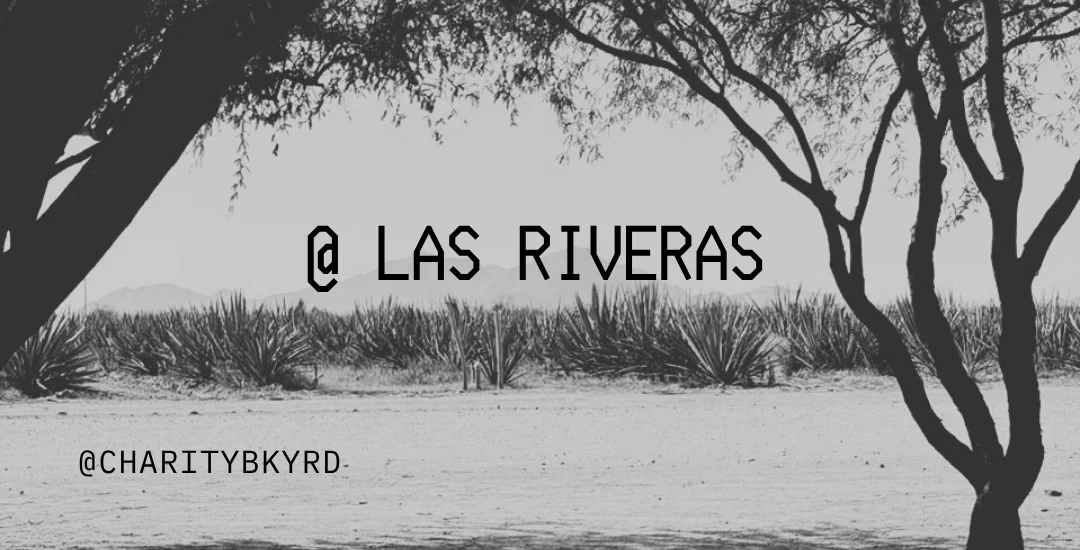
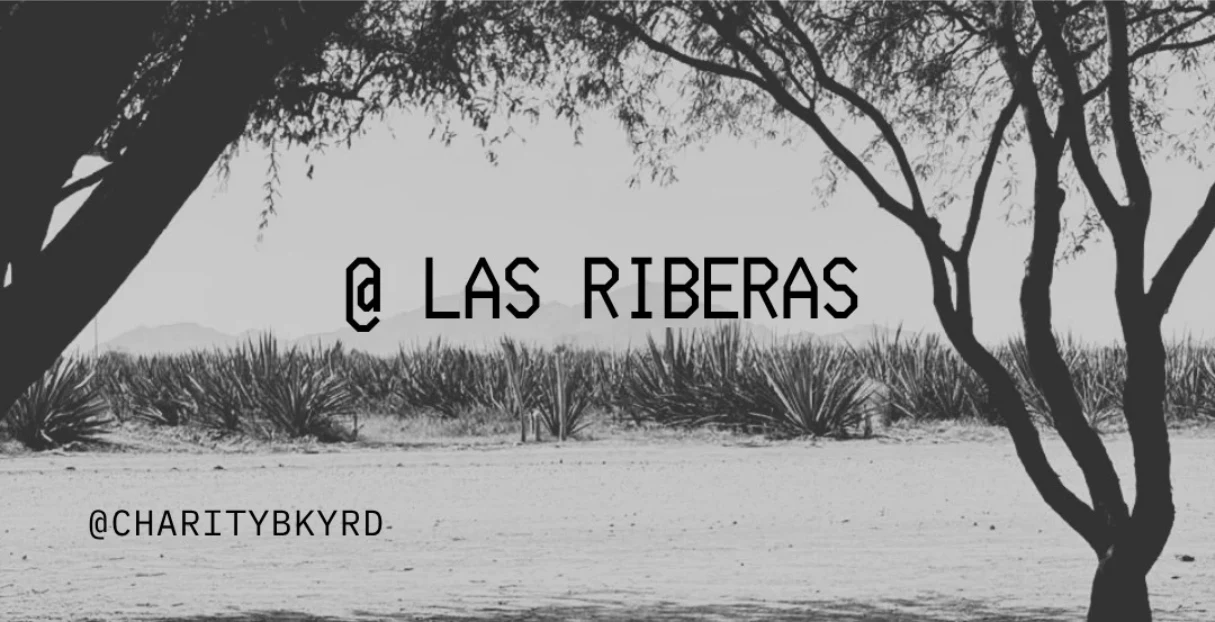
Home landscape says Las Riberas, shown whole without the duplicate overlay
Claude-Session: https://claude.ai/code/session_01FzLn4beriPXuAFo3ZurGu3

diff --git a/src/app/(site)/page.tsx b/src/app/(site)/page.tsx
@@ -31,7 +31,9 @@ export default async function HomePage() {
   const live = liveAnnouncements(announcements);
   const showResults = race.results_publication !== "hidden";
   const results = showResults ? (await getPublicResults(race.id)).rows : [];
-  const hero = storageUrl(race.hero_image_path) ?? "/brand/las-riberas-landscape.webp";
+  const customHero = storageUrl(race.hero_image_path);
+  // The default landscape already has "@ Las Riberas" lettered on it, so it is shown whole and without the text overlay.
+  const hero = customHero ?? "/brand/las-riberas-landscape.webp";
   const visibleSponsors = sponsors.filter((s) => s.is_published);
   const episodes = podcast.filter((p) => p.is_published);
 
@@ -70,8 +72,12 @@ export default async function HomePage() {
 
       <div className="relative border-y-2 border-ink">
         {/* eslint-disable-next-line @next/next/no-img-element */}
-        <img src={hero} alt={race.venue_name ? `Paisaje de ${race.venue_name}` : "Paisaje de la sede"} className="h-[42vh] min-h-64 w-full object-cover grayscale" />
-        {race.venue_name && (
+        <img
+          src={hero}
+          alt={race.venue_name ? `Paisaje de ${race.venue_name}` : "Paisaje de la sede"}
+          className={customHero ? "h-[42vh] min-h-64 w-full object-cover grayscale" : "block h-auto w-full grayscale"}
+        />
+        {customHero && race.venue_name && (
           <p className="absolute inset-x-0 bottom-6 text-center font-mono text-3xl uppercase tracking-wide text-ink sm:text-5xl">
             <span className="bg-paper/85 px-3">@ {race.venue_name}</span>
           </p>
